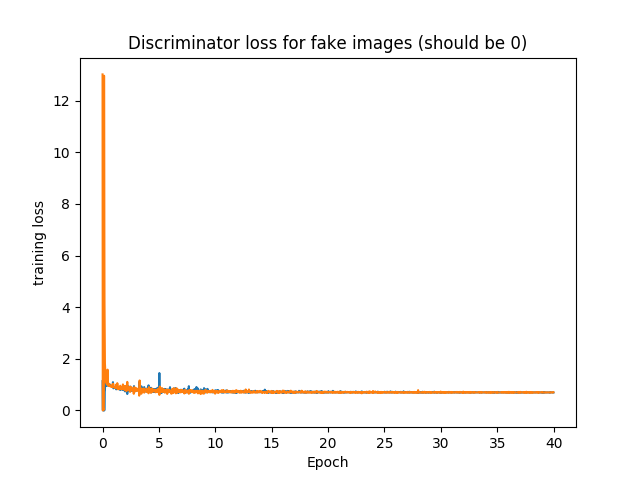
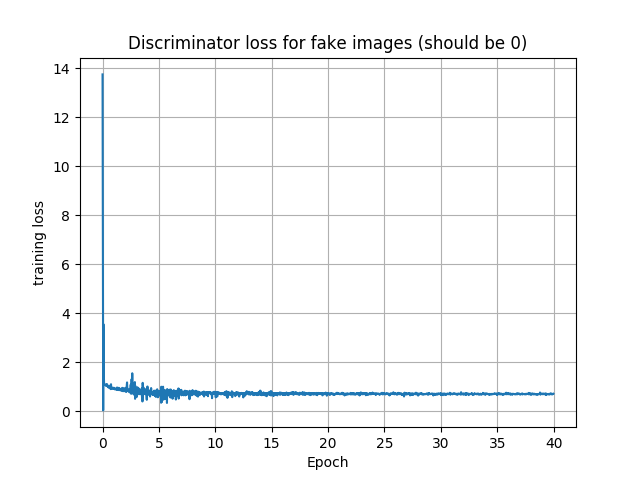
New outputs

diff --git a/models.py b/models.py
@@ -448,11 +448,11 @@ class ALOCC_Model():
                 if np.mod(counter, sample_interval) == 0:
                     if self.dataset_name == 'mnist':
                         samples = self.generator.predict(sample_inputs)
-                        manifold_h = int(np.ceil(np.sqrt(samples.shape[0])))
-                        manifold_w = int(np.floor(np.sqrt(samples.shape[0])))
-                        save_images(samples, [manifold_h, manifold_w],
-                            './{}/train_{:02d}_{:04d}.png'.format(self.sample_dir, epoch, idx))
-
+                        #manifold_h = int(np.ceil(np.sqrt(samples.shape[0])))
+                        #manifold_w = int(np.floor(np.sqrt(samples.shape[0])))
+                        #save_images(samples, [manifold_h, manifold_w],
+                        #    './{}/train_{:02d}_{:04d}.png'.format(self.sample_dir, epoch, idx))
+                        scipy.misc.imsave(self.sample_dir+'train_%d_%d_samples.png'%(epoch,idx), montage(np.squeeze(samples)))
             # Save the checkpoint end of each epoch.
             self.save(epoch)
         # Export the Generator/R network reconstruction losses as a plot.
@@ -472,6 +472,7 @@ class ALOCC_Model():
         plt.plot(plot_epochs,plot_d_real_losses)
         plt.savefig(cfg.train_dir+'plot_d_real_losses.png')
 
+        plt.clf()
         # Export the discriminator losses for fake images as a plot.
         plt.title('Discriminator loss for fake images (should be 0)')
         plt.xlabel('Epoch')
